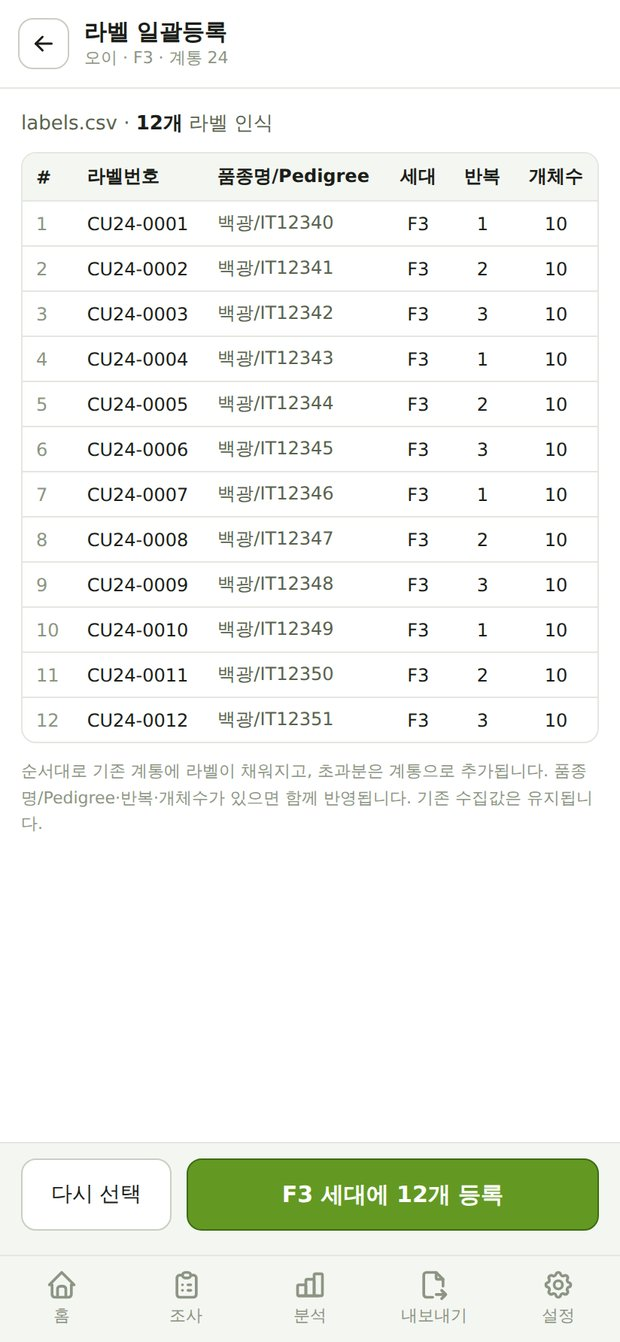
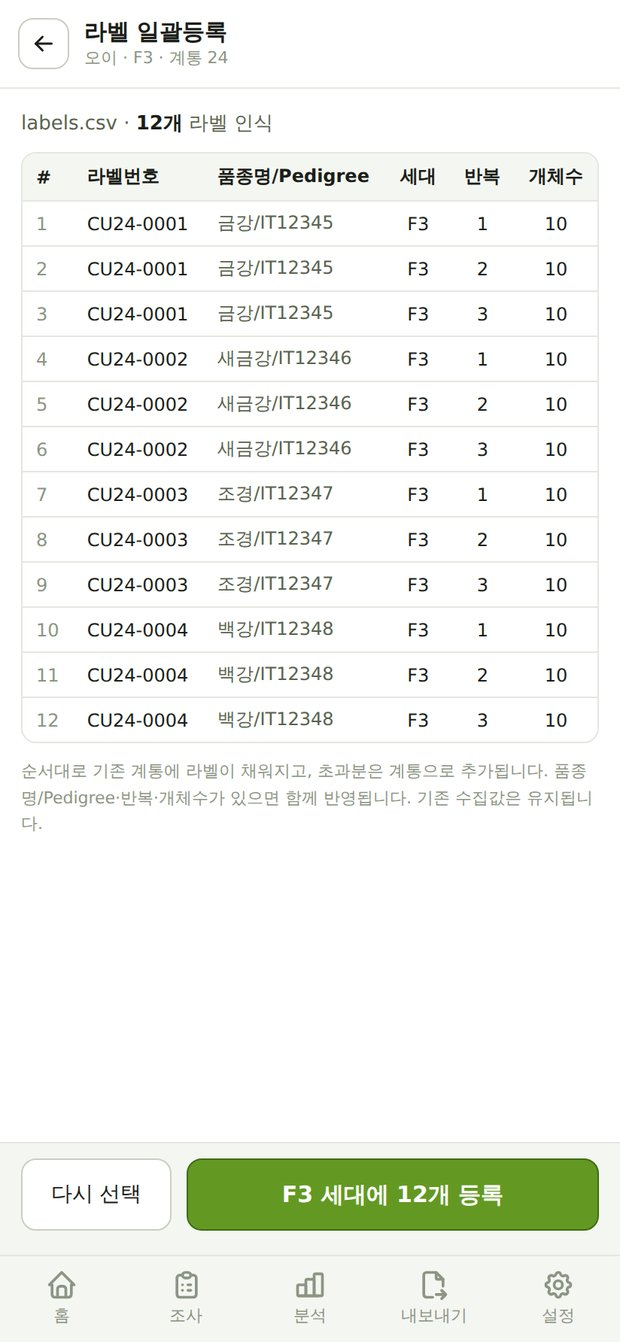
Add files via upload

diff --git a/app.js b/app.js
@@ -631,6 +631,12 @@
       .replace(/"/g, '&quot;').replace(/'/g, '&apos;');
   }
   function colLetter(n) { var s = ''; while (n > 0) { var m = (n - 1) % 26; s = String.fromCharCode(65 + m) + s; n = (n - m - 1) / 26; } return s; }
+  // 엑셀 열 너비 계산용 — 한글·한자는 두 칸 폭으로 센다
+  function xlsxTextW(v) {
+    var t = String(v == null ? '' : v), n = 0;
+    for (var i = 0; i < t.length; i++) n += t.charCodeAt(i) > 0x1100 ? 2 : 1;
+    return n;
+  }
   function xlsxSheetName(s) { return (String(s == null ? '' : s).replace(/[\[\]\*\?\/\\:]/g, ' ').replace(/\s+/g, ' ').trim() || '야장').slice(0, 31); }
   // 값이 숫자면 숫자 칸으로, 아니면 문자 칸으로 넣는다
   function xcell(ref, v, st, asText) {
@@ -770,7 +776,7 @@
     p.items.forEach(function (it) {
       (it.g.traits || []).forEach(function (t) {
         idName[it.g.id + '|' + t.id] = t.name;
-        if (!tMap[t.name]) { tMap[t.name] = { name: t.name, unit: xlsxTraitUnit(t), dates: [] }; tOrder.push(tMap[t.name]); }
+        if (!tMap[t.name]) { tMap[t.name] = { name: t.name, unit: xlsxTraitUnit(t), type: t.type, dates: [] }; tOrder.push(tMap[t.name]); }
         else if (!tMap[t.name].unit) tMap[t.name].unit = xlsxTraitUnit(t);
       });
     });
@@ -795,7 +801,7 @@
     var cols = [];
     tOrder.forEach(function (t) {
       t.dates.forEach(function (d) {
-        cols.push({ name: t.name, date: d, head: t.name + (t.unit ? '(' + t.unit + (d ? ', ' + d : '') + ')' : (d ? '(' + d + ')' : '')) });
+        cols.push({ name: t.name, date: d, text: t.type === 'text', wide: 0, head: t.name + (t.unit ? '(' + t.unit + (d ? ', ' + d : '') + ')' : (d ? '(' + d + ')' : '')) });
       });
     });
     var nCol = 6 + cols.length;
@@ -826,7 +832,8 @@
             var c = cols[ci];
             var v = vmap[g.id + '|' + l.id + '|' + k + '|' + c.name + '|' + c.date];
             if (v === undefined && c.date) v = vmap[g.id + '|' + l.id + '|' + k + '|' + c.name + '|'];   // 조사일 없이 저장된 값
-            cells += xcell(colLetter(7 + ci) + r, v == null ? '' : v, 4);
+            if (c.text) { if (v != null && v !== '') c.wide = Math.max(c.wide, xlsxTextW(v)); cells += xcell(colLetter(7 + ci) + r, v == null ? '' : v, 5, true); }
+            else cells += xcell(colLetter(7 + ci) + r, v == null ? '' : v, 4);
           }
           out.push('<row r="' + r + '">' + cells + '</row>');
           r++;
@@ -836,10 +843,16 @@
     }
 
     // 열 너비 · 병합
+    var pedW = 12;
+    p.items.forEach(function (it) { it.g.lines.forEach(function (l) { if (l.pedigree) pedW = Math.max(pedW, xlsxTextW(l.pedigree)); }); });
     var cw = '<cols><col min="1" max="1" width="10.5" customWidth="1"/><col min="2" max="2" width="12" customWidth="1"/>' +
-      '<col min="3" max="3" width="22" customWidth="1"/><col min="4" max="4" width="7" customWidth="1"/>' +
+      '<col min="3" max="3" width="' + Math.min(40, Math.max(18, pedW + 2)) + '" customWidth="1"/><col min="4" max="4" width="7" customWidth="1"/>' +
       '<col min="5" max="5" width="6" customWidth="1"/><col min="6" max="6" width="6" customWidth="1"/>' +
-      (cols.length ? '<col min="7" max="' + nCol + '" width="13.5" customWidth="1"/>' : '') + '</cols>';
+      cols.map(function (c, ci) {
+        // 문자형(비고 등)은 적어 넣은 글이 잘리지 않게 칸 폭을 내용에 맞춘다
+        var w = c.text ? Math.min(60, Math.max(18, c.wide + 2)) : 13.5;
+        return '<col min="' + (7 + ci) + '" max="' + (7 + ci) + '" width="' + w + '" customWidth="1"/>';
+      }).join('') + '</cols>';
     var mergeEnd = colLetter(Math.min(10, nCol));
     var merges = '<mergeCells count="2"><mergeCell ref="B1:F1"/><mergeCell ref="B2:' + mergeEnd + '2"/></mergeCells>';
 
@@ -1337,7 +1350,9 @@
       $('wRcbd').onclick = function () { w.rcbd = !w.rcbd; renderNew(); };
       document.querySelectorAll('.wrep').forEach(function (b) { b.onclick = function () { w.reps = parseInt(b.getAttribute('data-n')); renderNew(); }; });
       if ($('wFileReset')) $('wFileReset').onclick = function () { w.rows = null; w.fileName = ''; renderNew(); };
-      if ($('wTpl')) $('wTpl').onclick = function () { var pf = w.prefix || yy(); var csv = '라벨번호,품종명/Pedigree,세대,반복,개체수\r\n' + pf + '-0001,금강/IT12345,F3,1,10\r\n' + pf + '-0002,새금강/IT12346,F3,2,10\r\n' + pf + '-0003,조경/IT12347,F3,3,10\r\n'; downloadBlob(new Blob(['\uFEFF' + csv], { type: 'text/csv;charset=utf-8' }), 'label_template.csv'); toast('빈 양식 CSV 내려받음'); };
+      if ($('wTpl')) $('wTpl').onclick = function () { var pf = w.prefix || yy(); var csv = '라벨번호,품종명/Pedigree,세대,반복,개체수\r\n' +
+        pf + '-0001,금강/IT12345,F3,1,10\r\n' + pf + '-0001,금강/IT12345,F3,2,10\r\n' + pf + '-0001,금강/IT12345,F3,3,10\r\n' +
+        pf + '-0002,새금강/IT12346,F3,1,10\r\n' + pf + '-0002,새금강/IT12346,F3,2,10\r\n' + pf + '-0002,새금강/IT12346,F3,3,10\r\n';  downloadBlob(new Blob(['\uFEFF' + csv], { type: 'text/csv;charset=utf-8' }), 'label_template.csv'); toast('빈 양식 CSV 내려받음'); };
       if ($('wPick')) $('wPick').onclick = function () { $('wFile').click(); };
       if ($('wShot')) $('wShot').onclick = function () { $('wCam').click(); };
       if ($('wCam')) $('wCam').onchange = function () {
@@ -3312,7 +3327,9 @@
     var g = S.gens[S.bulkIdx] || S.gens[0];
     var pf = (g && /^\d{2}$/.test(String(g.prefix || '')) ? g.prefix : yy());
     var gl = (g && g.label) || 'F3';
-    var csv = '라벨번호,품종명/Pedigree,세대,반복,개체수\r\n' + pf + '-0001,금강/IT12345,' + gl + ',1,10\r\n' + pf + '-0002,새금강/IT12346,' + gl + ',2,10\r\n' + pf + '-0003,조경/IT12347,' + gl + ',3,10\r\n';
+    var csv = '라벨번호,품종명/Pedigree,세대,반복,개체수\r\n' +
+      pf + '-0001,금강/IT12345,' + gl + ',1,10\r\n' + pf + '-0001,금강/IT12345,' + gl + ',2,10\r\n' + pf + '-0001,금강/IT12345,' + gl + ',3,10\r\n' +
+      pf + '-0002,새금강/IT12346,' + gl + ',1,10\r\n' + pf + '-0002,새금강/IT12346,' + gl + ',2,10\r\n' + pf + '-0002,새금강/IT12346,' + gl + ',3,10\r\n';
     downloadBlob(new Blob(['\uFEFF' + csv], { type: 'text/csv;charset=utf-8' }), 'label_template.csv');
     toast('빈 양식 CSV 내려받음');
   }
@@ -4286,6 +4303,14 @@
         note: 'Chrome 브라우저 앱 설치시 정상 백업 지원 되며, 다른 브라우저 앱 설치의 경우 ZIP 파일 다운로드로 진행됩니다.',
         calls: [gc('bkCard', 1)] },
 
+      { img: '19-xlsx', doc: true, chap: '받는 파일', title: 'Excel 야장 (사용자 조사용)',
+        body: '한 줄이 <b>개체 하나</b>입니다. G열부터 <b>형질(단위, 조사일)</b> 순서로 가로로 펴져 있어 <b>그대로 인쇄해 조사</b>하거나 값을 채워 넣기 좋습니다.',
+        note: 'A1 과제 목표 / B1 과제명, A2 경종 개요 / B2 파종일·정식일, 5행 제목 행, 6행부터 값. 그림을 탭하면 크게 볼 수 있습니다.' },
+
+      { img: '20-csv', doc: true, chap: '받는 파일', title: 'CSV 야장 (통계 분석용)',
+        body: '한 줄이 <b>개체 하나의 형질 하나</b>인 <b>롱포맷</b>입니다. 엑셀 피벗이나 R·SPSS에 <b>그대로 넣어 분석</b>할 수 있습니다.',
+        note: 'UTF-8(BOM)이라 엑셀에서 한글이 깨지지 않습니다. 형질 수집형태 열이 있어 다시 불러올 때 형질 종류가 그대로 살아납니다.' },
+
       { last: true, chap: '', title: 'Crop Memo Pro!',
         body: '이제 첫 과제를 만들고, 동기화/백업을 수행 해보세요.<br>인터넷이 끊겨도 입력한 값은 기기에 남지만, 안전을 위해 데이터 백업 하시기 바랍니다.' }
     ];
@@ -4309,7 +4334,9 @@
     if (!o) { o = document.createElement('div'); o.id = 'guideOvl'; o.className = 'govl'; document.body.appendChild(o); }
     renderGuide();
   }
+  function closeGuideZoom() { var z = document.getElementById('gZoom'); if (z) z.remove(); }
   function closeGuide(markSeen) {
+    closeGuideZoom();
     var o = document.getElementById('guideOvl'); if (o) o.remove();
     S.guide = null;
     if (markSeen !== false) kvSet('guideSeen', true);
@@ -4325,9 +4352,10 @@
       ? '<div class="gend"><div class="gendic">' + ico('circle-check', '#fff', 40) + '</div>' +
         '<div class="gendttl">준비 완료</div>' +
         '<div class="gendmsg">언제든 <b>설정 → 사용 가이드 다시 보기</b>에서<br>이 안내를 다시 볼 수 있습니다.</div></div>'
-      : '<div class="gshot"><div class="gframe"><img src="guide/' + s.img + '.jpg" alt="">' +
+      : '<div class="gshot"><div class="gframe' + (s.doc ? ' gdoc' : '') + '" id="gShot"><img src="guide/' + s.img + '.jpg" alt="">' +
         (s.calls || []).map(guideCallHTML).join('') +
         (s.swipe ? '<div class="gswh">◀ 개체 ▶</div><div class="gswv">▲ 라벨번호 ▼</div>' : '') +
+        '<div class="gzhint">' + ico('search', '#fff', 12) + ' 탭하면 크게</div>' +
         '</div></div>';
     var dots = G.slides.map(function (x, k) { return '<div class="gdot' + (k === G.i ? ' on' : '') + '" data-k="' + k + '"></div>'; }).join('');
     var foot = s.last
@@ -4354,6 +4382,7 @@
     if ($('gDone')) $('gDone').onclick = function () { closeGuide(false); kvSet('guideSeen', !!G.hide); toast(G.hide ? '가이드를 닫았습니다 · 설정에서 다시 볼 수 있어요' : '다음 실행 때 다시 안내합니다'); };
     $('gClose').onclick = function () { closeGuide(true); };
     o.querySelectorAll('.gdot').forEach(function (d) { d.onclick = function () { G.i = +d.getAttribute('data-k'); renderGuide(); }; });
+    if ($('gShot')) $('gShot').onclick = function (e) { e.stopPropagation(); openGuideZoom('guide/' + s.img + '.jpg', s.title); };
     // 좌우 스와이프로 넘기기
     var sx = null, sy = null;
     o.onpointerdown = function (e) { sx = e.clientX; sy = e.clientY; };
@@ -4362,6 +4391,40 @@
       var dx = e.clientX - sx, dy = e.clientY - sy; sx = null;
       if (Math.abs(dx) > 45 && Math.abs(dx) > Math.abs(dy)) guideGo(dx < 0 ? 1 : -1);
     };
+  }
+  // 가이드 그림 확대해서 보기 — 탭하면 커지고, ＋ / － 로 단계 조절
+  var GZ_STEPS = [100, 150, 220, 320, 460];
+  function openGuideZoom(src, title) {
+    if (document.getElementById('gZoom')) return;
+    var z = document.createElement('div');
+    z.id = 'gZoom'; z.className = 'gzoom';
+    z.innerHTML =
+      '<div class="gzbar">' +
+        '<span class="gztitle">' + esc(title || '') + '</span>' +
+        '<button class="gzbtn" id="gzOut">－</button>' +
+        '<span class="gzpct" id="gzPct">100%</span>' +
+        '<button class="gzbtn" id="gzIn">＋</button>' +
+        '<button class="gzbtn" id="gzClose">' + ico('x', '#fff', 17) + '</button>' +
+      '</div>' +
+      '<div class="gzbody" id="gzBody"><img id="gzImg" src="' + src + '" alt=""></div>';
+    document.body.appendChild(z);
+    var step = 0, img = $('gzImg'), body = $('gzBody');
+    function apply(keepCenter) {
+      var before = { x: body.scrollLeft + body.clientWidth / 2, y: body.scrollTop + body.clientHeight / 2, w: img.offsetWidth || 1, h: img.offsetHeight || 1 };
+      img.style.width = GZ_STEPS[step] + '%';
+      $('gzPct').textContent = GZ_STEPS[step] + '%';
+      if (keepCenter) requestAnimationFrame(function () {
+        var rx = before.x / before.w, ry = before.y / before.h;
+        body.scrollLeft = rx * img.offsetWidth - body.clientWidth / 2;
+        body.scrollTop = ry * img.offsetHeight - body.clientHeight / 2;
+      });
+    }
+    apply(false);
+    $('gzIn').onclick = function () { if (step < GZ_STEPS.length - 1) { step++; apply(true); } };
+    $('gzOut').onclick = function () { if (step > 0) { step--; apply(true); } };
+    img.onclick = function () { step = (step + 1) % GZ_STEPS.length; apply(true); };
+    $('gzClose').onclick = function () { z.remove(); };
+    z.addEventListener('click', function (e) { if (e.target === z || e.target === body) z.remove(); });
   }
   function guideGo(d) {
     var G = S.guide; if (!G) return;

diff --git a/styles.css b/styles.css
@@ -197,3 +197,23 @@ a{color:var(--green-d)}
 .blocktitle{font-size:18px;font-weight:700;margin-bottom:8px}
 .blockmsg{font-size:13.5px;color:var(--text-secondary);line-height:1.75}
 .blockwho{font-size:11px;color:var(--text-muted);margin-top:12px}
+
+/* 가이드 그림 — 문서(엑셀·CSV) 예시는 잘라내지 않고 전체가 보이게 */
+.gframe.gdoc{aspect-ratio:auto;width:100%;height:auto;max-height:100%;box-shadow:none;background:transparent;display:block;overflow:visible;border-radius:8px}
+.gframe.gdoc img{width:100%;height:auto;max-height:100%;object-fit:contain;display:block;border-radius:8px;box-shadow:0 4px 14px rgba(0,0,0,.16);background:#fff}
+/* 탭하면 크게 — 안내 배지 */
+.gframe{cursor:zoom-in}
+.gzhint{position:absolute;right:7px;bottom:7px;display:inline-flex;align-items:center;gap:4px;background:rgba(15,20,16,.62);color:#fff;
+  font-size:10.5px;font-weight:600;padding:4px 8px;border-radius:20px;pointer-events:none}
+/* 그림 확대해서 보기 */
+.gzoom{position:fixed;inset:0;z-index:400;background:#10140F;display:flex;flex-direction:column}
+.gzbar{flex:0 0 auto;display:flex;align-items:center;gap:8px;padding:9px 10px;background:rgba(0,0,0,.5);color:#fff}
+.gztitle{flex:1;min-width:0;font-size:12.5px;font-weight:600;overflow:hidden;text-overflow:ellipsis;white-space:nowrap;opacity:.92}
+.gzpct{font-size:11.5px;font-weight:700;min-width:42px;text-align:center;opacity:.85}
+.gzbtn{width:34px;height:34px;border:0;border-radius:10px;background:rgba(255,255,255,.16);color:#fff;font-size:17px;font-weight:700;
+  display:flex;align-items:center;justify-content:center;padding:0;cursor:pointer}
+.gzbtn:active{background:rgba(255,255,255,.3)}
+.gzbody{flex:1 1 auto;min-height:0;overflow:auto;-webkit-overflow-scrolling:touch;padding:10px;display:flex;align-items:flex-start;justify-content:center}
+.gzbody img{max-width:none;flex:0 0 auto;display:block;border-radius:6px;background:#fff;cursor:zoom-in}
+
+.gframe.gdoc .gzhint{top:7px;bottom:auto}
